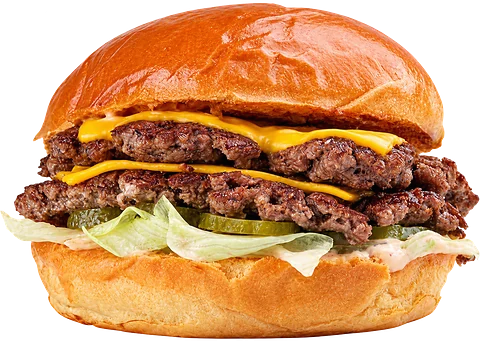
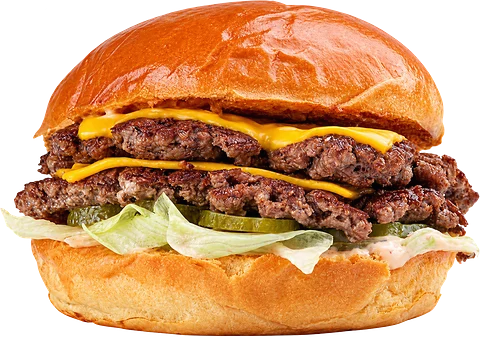
Fix uneven burger sizing: trim invisible padding from the image assets
The Chili Cheeseburger and Veggie Burger looked noticeably smaller than the
other two. The cause was not the CSS: those source files carry a large band
of near-transparent ghost pixels around the subject, and the original trim
used getbbox() on raw alpha, which treats any alpha above zero as content.
So the trim kept the empty margin, object-fit:contain fitted the padded box
to the card, and the burger inside ended up scaled down.

Measured per file, content height at alpha>0 versus alpha>4:
  cheeseburger  1031 -> 1016   (1% padding)
  truffle       1051 ->  956   (9%)
  chili         1214 -> 1009   (17%)
  veggie        1245 ->  863   (31%)
Everything between alpha 1 and 4 is at most 1.6% opaque — invisible — and
the numbers are stable from alpha>4 upward, so nothing visible is lost.

Regenerates all four asset sets from the untouched original uploads using an
alpha>4 threshold, and updates the width/height attributes to the new
aspect ratios. The burgers themselves are not cropped, scaled or distorted;
only invisible margin is removed.

Fixed by re-deriving the assets rather than adding CSS scale factors: a
transform would enlarge the padded box too, pushing the burger past the
frame where overflow:hidden would crop it — the one thing that had to be
avoided. object-fit:contain, centring and the shared hover are unchanged,
and no per-image CSS was added.

Verified by rasterising each rendered image and measuring the true opaque
[…]

diff --git a/index.html b/index.html
@@ -132,7 +132,7 @@
                               images/cheeseburger-1200.webp 1200w"
                       sizes="(max-width: 900px) 74vw, 520px">
               <img src="images/cheeseburger.png" alt="Sameo cheeseburger"
-                   width="1448" height="1031" loading="eager" fetchpriority="high" decoding="async">
+                   width="1448" height="1016" loading="eager" fetchpriority="high" decoding="async">
             </picture>
           </div>
         </div>
@@ -168,7 +168,7 @@
                               images/cheeseburger-1200.webp 1200w"
                       sizes="(max-width: 900px) 74vw, 520px">
               <img src="images/cheeseburger.png" alt=""
-                   width="1448" height="1031" loading="lazy" decoding="async">
+                   width="1448" height="1016" loading="lazy" decoding="async">
             </picture>
           </div>
           <div>
@@ -217,7 +217,7 @@
                               images/cheeseburger-1200.webp 1200w"
                       sizes="(max-width: 620px) 92vw, (max-width: 900px) 46vw, 540px">
               <img class="product-shot" src="images/cheeseburger.png"
-                   alt="Sameo cheeseburger" width="1448" height="1031"
+                   alt="Sameo cheeseburger" width="1448" height="1016"
                    loading="lazy" decoding="async">
             </picture>
           </div>
@@ -240,7 +240,7 @@
                               images/chili-burger-1200.webp 1200w"
                       sizes="(max-width: 620px) 92vw, (max-width: 900px) 46vw, 540px">
               <img class="product-shot" src="images/chili-burger.png"
-                   alt="Sameo chili cheeseburger" width="1253" height="1214"
+                   alt="Sameo chili cheeseburger" width="1231" height="1009"
                    loading="lazy" decoding="async">
             </picture>
           </div>
@@ -263,7 +263,7 @@
                               images/truffle-burger-1200.webp 1200w"
                       sizes="(max-width: 620px) 92vw, (max-width: 900px) 46vw, 540px">
               <img class="product-shot" src="images/truffle-burger.png"
-                   alt="Sameo truffle burger" width="1412" height="1051"
+                   alt="Sameo truffle burger" width="1407" height="956"
                    loading="lazy" decoding="async">
             </picture>
           </div>
@@ -286,7 +286,7 @@
                               images/veggie-burger-1200.webp 1200w"
                       sizes="(max-width: 620px) 92vw, (max-width: 900px) 46vw, 540px">
               <img class="product-shot" src="images/veggie-burger.png"
-                   alt="Sameo veggie burger" width="1254" height="1245"
+                   alt="Sameo veggie burger" width="1250" height="863"
                    loading="lazy" decoding="async">
             </picture>
           </div>

diff --git a/menu.html b/menu.html
@@ -100,7 +100,7 @@
                               images/cheeseburger-1200.webp 1200w"
                       sizes="(max-width: 620px) 92vw, (max-width: 900px) 46vw, 540px">
               <img class="product-shot" src="images/cheeseburger.png"
-                   alt="Sameo cheeseburger" width="1448" height="1031"
+                   alt="Sameo cheeseburger" width="1448" height="1016"
                    loading="lazy" decoding="async">
             </picture>
           </div>
@@ -124,7 +124,7 @@
                               images/chili-burger-1200.webp 1200w"
                       sizes="(max-width: 620px) 92vw, (max-width: 900px) 46vw, 540px">
               <img class="product-shot" src="images/chili-burger.png"
-                   alt="Sameo chili cheeseburger" width="1253" height="1214"
+                   alt="Sameo chili cheeseburger" width="1231" height="1009"
                    loading="lazy" decoding="async">
             </picture>
           </div>
@@ -147,7 +147,7 @@
                               images/truffle-burger-1200.webp 1200w"
                       sizes="(max-width: 620px) 92vw, (max-width: 900px) 46vw, 540px">
               <img class="product-shot" src="images/truffle-burger.png"
-                   alt="Sameo truffle burger" width="1412" height="1051"
+                   alt="Sameo truffle burger" width="1407" height="956"
                    loading="lazy" decoding="async">
             </picture>
           </div>
@@ -170,7 +170,7 @@
                               images/veggie-burger-1200.webp 1200w"
                       sizes="(max-width: 620px) 92vw, (max-width: 900px) 46vw, 540px">
               <img class="product-shot" src="images/veggie-burger.png"
-                   alt="Sameo veggie burger" width="1254" height="1245"
+                   alt="Sameo veggie burger" width="1250" height="863"
                    loading="lazy" decoding="async">
             </picture>
           </div>
